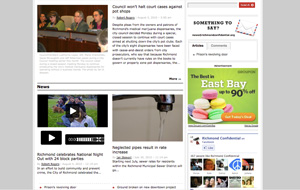
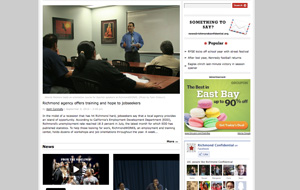
fixed calpress_byline issues
git-svn-id: http://calpresstheme.googlecode.com/svn/trunk@122 a02837fa-88ba-2307-23dd-5b8dd1ba40a4

diff --git a/loops/loop-content.php b/loops/loop-content.php
@@ -66,20 +66,13 @@ function calpress_loop_content($art=true, $artsize=620, $artcrop=0, $multimedia=
     <?php if ($meta): ?>
 
         <div class="entry-meta">
-      	    <span class="author vcard"><?php printf( __( 'By %s', 'sandbox' ), '<a class="url fn n" href="' . get_author_link( false, $authordata->ID, $authordata->user_nicename ) . '" title="' . sprintf( __( 'View all posts by %s', 'sandbox' ), $authordata->display_name ) . '">' . get_the_author() . '</a>' ) ?></span>
+      	    <!--
+      	    <span class="author vcard"><?php printf( __( 'By %s', 'sandbox' ), '<a class="url fn n" href="' . get_author_link( false, $authordata->ID, $authordata->user_nicename ) . '" title="' . sprintf( __( 'View all posts by %s', 'sandbox' ), $authordata->display_name ) . '">' . get_the_author() . '</a>' ) ?></span>-->
+      	    
+      	    
+      	    <?php calpress_bylines($authordata); ?>
       		<span class="meta-sep">|</span>
       		<span class="entry-date">
-      		    <?php
-      		        /*
-      		        if (get_the_modified_time() != get_the_time()){
-      		            ?>
-      		            <abbr class="entry-updated" title="<?php get_the_modified_time('Y-m-d\TH:i:sO') ?>"><?php unset($previousday); printf( __( 'Updated: %1$s &#8211; %2$s', 'sandbox' ), the_date( '', '', '', false ), get_the_modified_time() ) ?></abbr>
-      		            <?php
-      		        }else{ ?>
-      		            <abbr class="published" title="<?php the_time('Y-m-d\TH:i:sO') ?>"><?php unset($previousday); printf( __( '%1$s &#8211; %2$s', 'sandbox' ), the_modified_time('F j, Y'), get_the_time() ) ?></abbr>
-      		        <?php 
-      		        }*/
-      		        ?>
       		        <abbr class="published" title="<?php the_time('Y-m-d\TH:i:sO') ?>"><?php unset($previousday); printf( __( '%1$s &#8211; %2$s', 'sandbox' ), the_time('F j, Y'), get_the_time() ) ?></abbr>
       		</span>
       	</div>

diff --git a/library/extensions/helpers.php b/library/extensions/helpers.php
@@ -30,9 +30,12 @@
  * @return void
  */
 function calpress_bylines($authordata = null){
-    if ( get_post_custom_values('byline') ) {
+    global $post;
+    $thePostID = $post->ID;
+    
+    if ( get_post_custom_values('byline', $thePostID ) ) {
         echo("<span class=\"entry-byline\">By: ");
-        $byline_values = get_post_custom_values('byline');
+        $byline_values = get_post_custom_values('byline', $thePostID);
         $byline = '';
         foreach ( $byline_values as $key => $value ) {
            $byline = $byline . $value . ", ";
